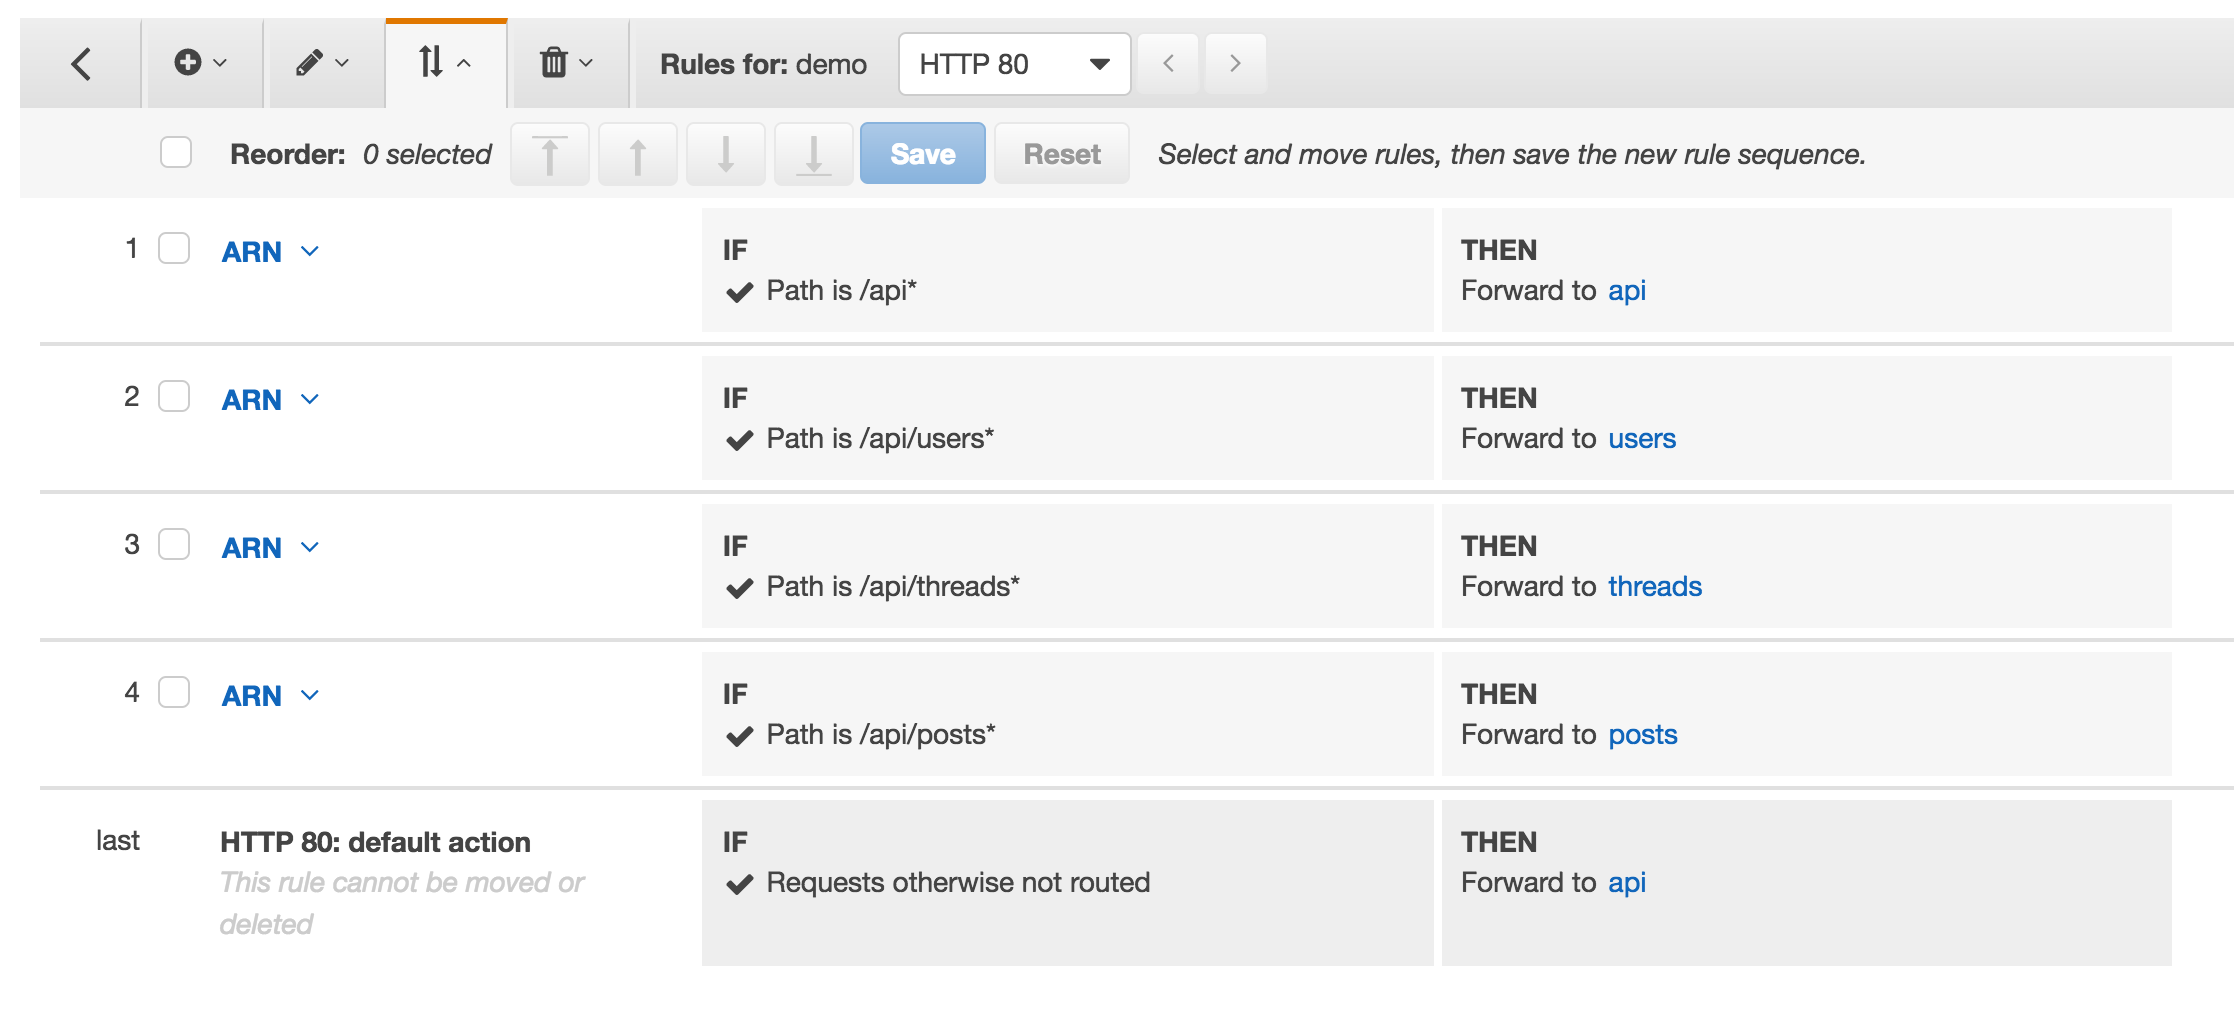
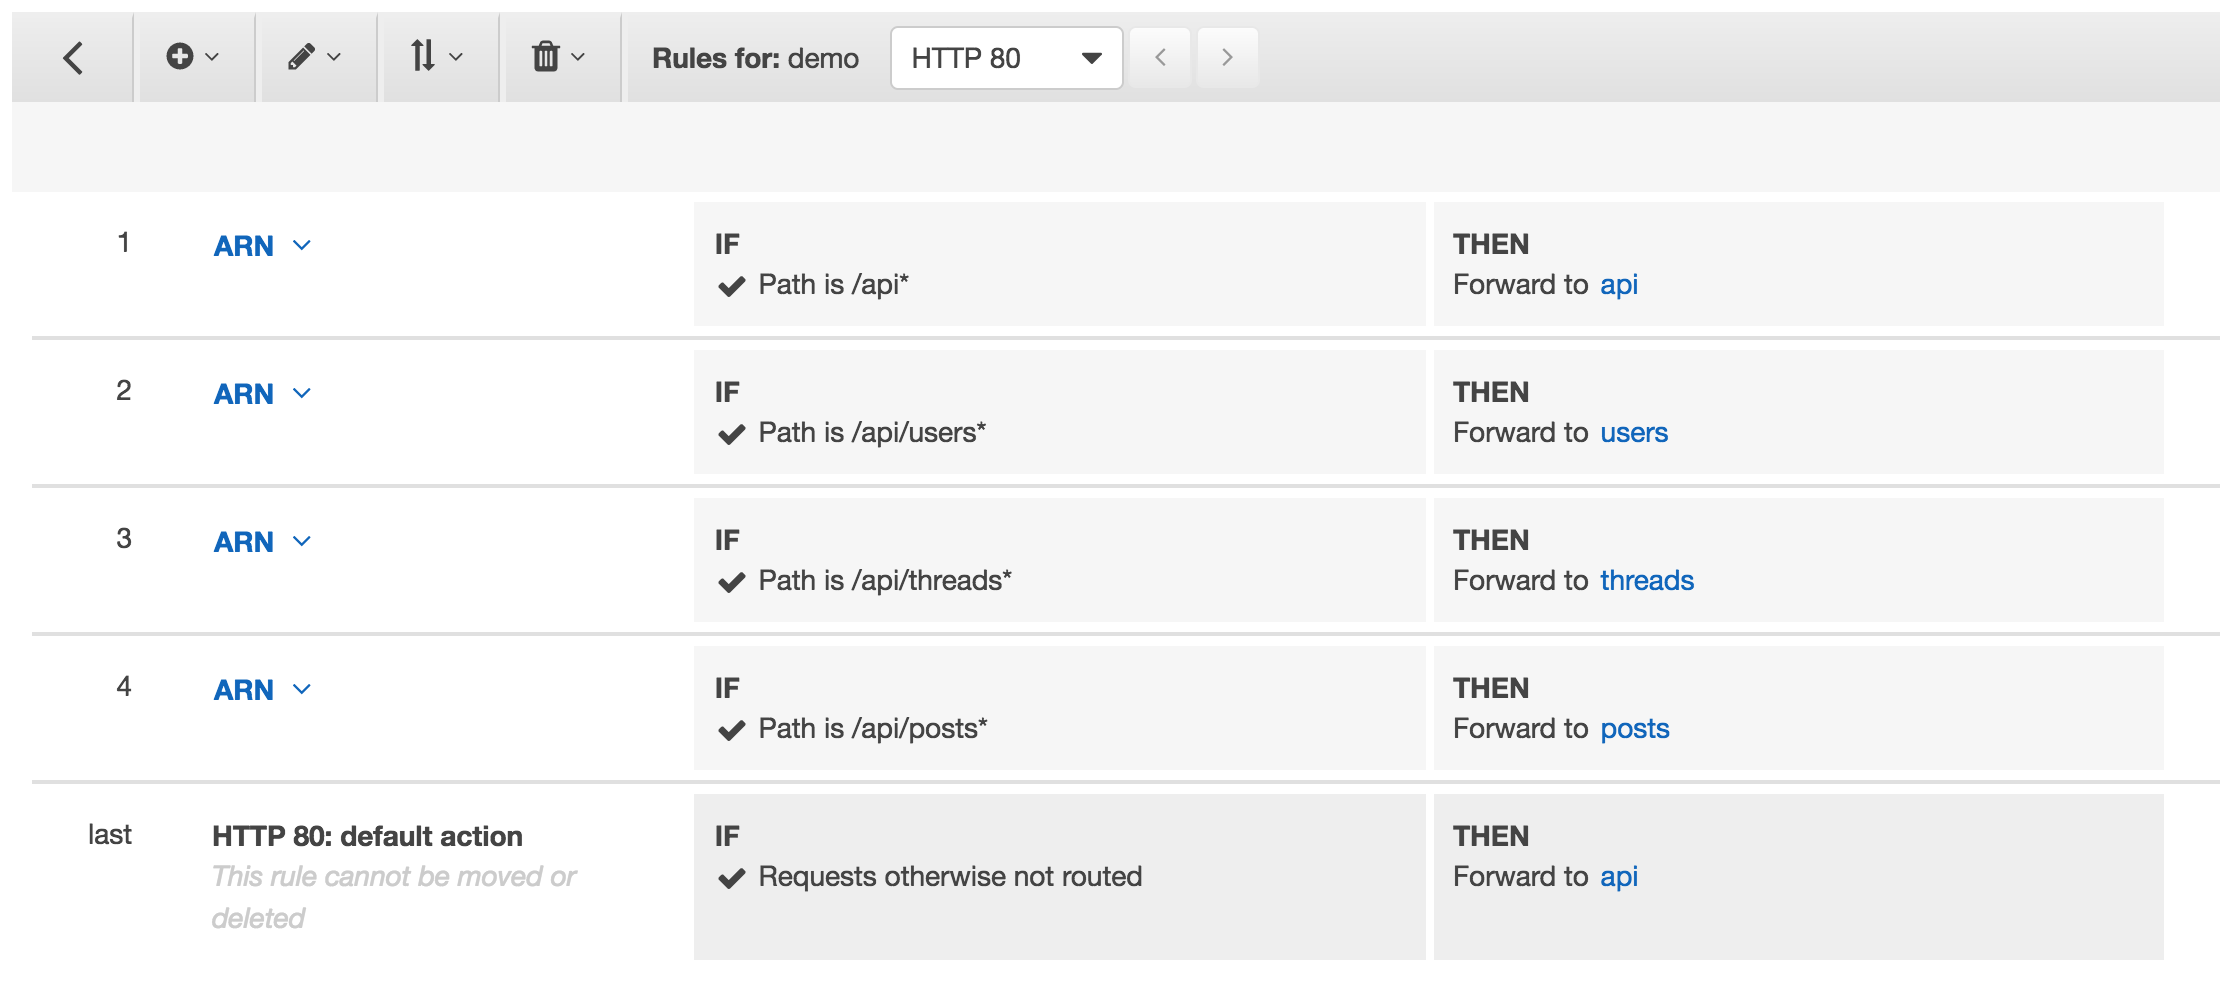
step 4 update

diff --git a/Step-4.md b/Step-4.md
@@ -112,7 +112,7 @@ _For example: Path = `/api/posts*` forward to `posts`_
 ![4.3 - Listener Rules](images/4.3-rules.png)
 
 ---
-#### 3. Deploy your Microservices
+#### 4. Deploy your Microservices
 Now, we'll deploy our three services onto our cluster. Repeat these steps for each of our three services:
 
 * Navigate to the 'Clusters' menu on the left side of the Amazon ECS console.
@@ -136,19 +136,43 @@ Target group name = select your group: `[service-name]`
 
 It should only take a few seconds for all your services to start. Double check that all services and tasks are running and healthy before you proceed.
 
-![image 4.6 - Cluster State](images/4.6-cluster.png)
+![image 4.4 - Cluster State](images/4.4-cluster.png)
 
 ---
-#### 7. Validate your Deployment (optional)
-Validate your deployment by checking if the service is available from the internet and pinging it.
+#### 5. Switch over traffic to your microservices
+Right now, your microservices are running but all traffic is going to your monolith.
 
-**To find your service URL:**
+**Update Listener Rules to route your traffic**
+* Navigate to the [Load Balancer section of the EC2 Console](https://console.aws.amazon.com/ec2/v2/home?#LoadBalancers:)
+* Select `View/edit rules >` for the listener on the `demo` load balancer.
+* Delete the first rule (`/api*` forwards to `api`).
+* Update the default rule to forward to `drop-traffic`.
+
+Your rules should look like this:
+![images - 4.5 - rules](images/4.5-rules.png)
+
+**Turn off the Monolith**
+Now, traffic is flowing to your microservices and we can spin down our Monolith service.
+* Navigate back to your Amazon ECS cluster `BreakTheMonolith-Demo-ECSCluster`.
+* Select the `api` service and then `Update`.
+* Change **Number of Tasks** to `0`.
+* Select `Update Service`.
+
+Amazon ECS will now drain any connections from containers the service has deployed on the cluster then stop the containers. If you refresh the _Deployments_ or _Tasks_ lists after about 30 seconds, you'll see that the number of tasks will drop to 0. The service is still active, so if you needed to roll back for any reason, you could simply update it to deploy more tasks.
+
+* Select the `api` service and then `Delete` and confirm delete.
+
+You've now fully transitioned your node.js from the monolith to microservices, without _**any downtime**_!
+
+---
+#### 6. Validate your Deployment
+
+**Find your service URL:**
+This is the same URL that you used in Part 2 of this tutorial.
 * Navigate to the [Load Balancers](https://console.aws.amazon.com/ec2/v2/home?#LoadBalancers:) section of the EC2 Console.
 * Select your load balancer `demo-microservices`.
 * Copy and paste the value for `DNS name` into your browser.
 * You should see a message 'Ready to receive requests'.
-
-![4.7 - Ready to Receive](images/4.7-ready.png)
 
 **See the values for each microservice**
 Your ALB routes traffic based on the request URL. To see each service, simply add the service name to the end of your DNS Name like this:
@@ -156,8 +180,8 @@ Your ALB routes traffic based on the request URL. To see each service, simply ad
 * `http://[DNS name]/api/threads`
 * `http://[DNS name]/api/posts`
 
-![IMAGE 4.7 - threads](images/4.7-threads.png)
+![IMAGE 4.6 - threads](images/4.6-threads.png)
 
-You can also use tools such as [Postman](https://www.getpostman.com/) for testing your APIs.
+Notice that these URLs perform _exactly_ the same as when the monolith is deployed. This is important because any APIs or consumers that would expect to connect to this app would not be affected by the changes we made. Going from monolith to microservices required no changes to other services.
 
 #### [Next](/Step-5.md)
